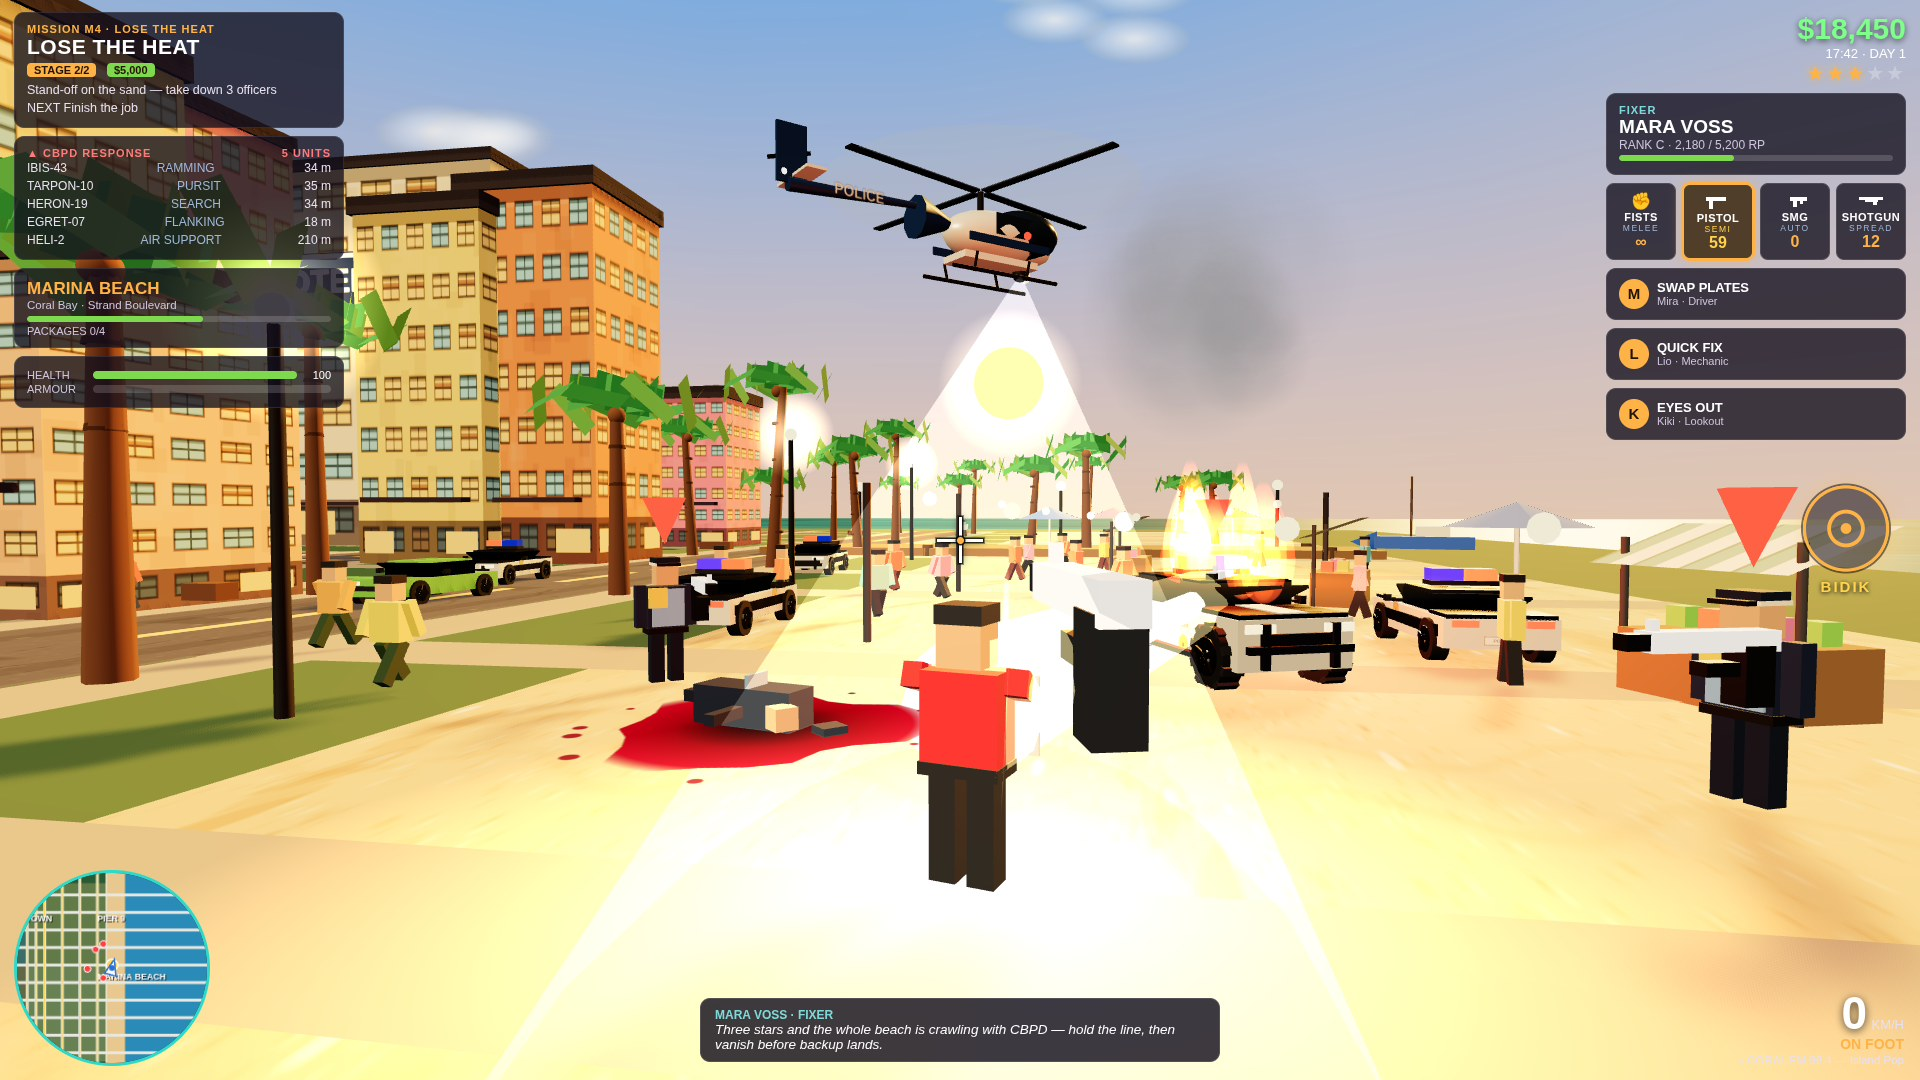
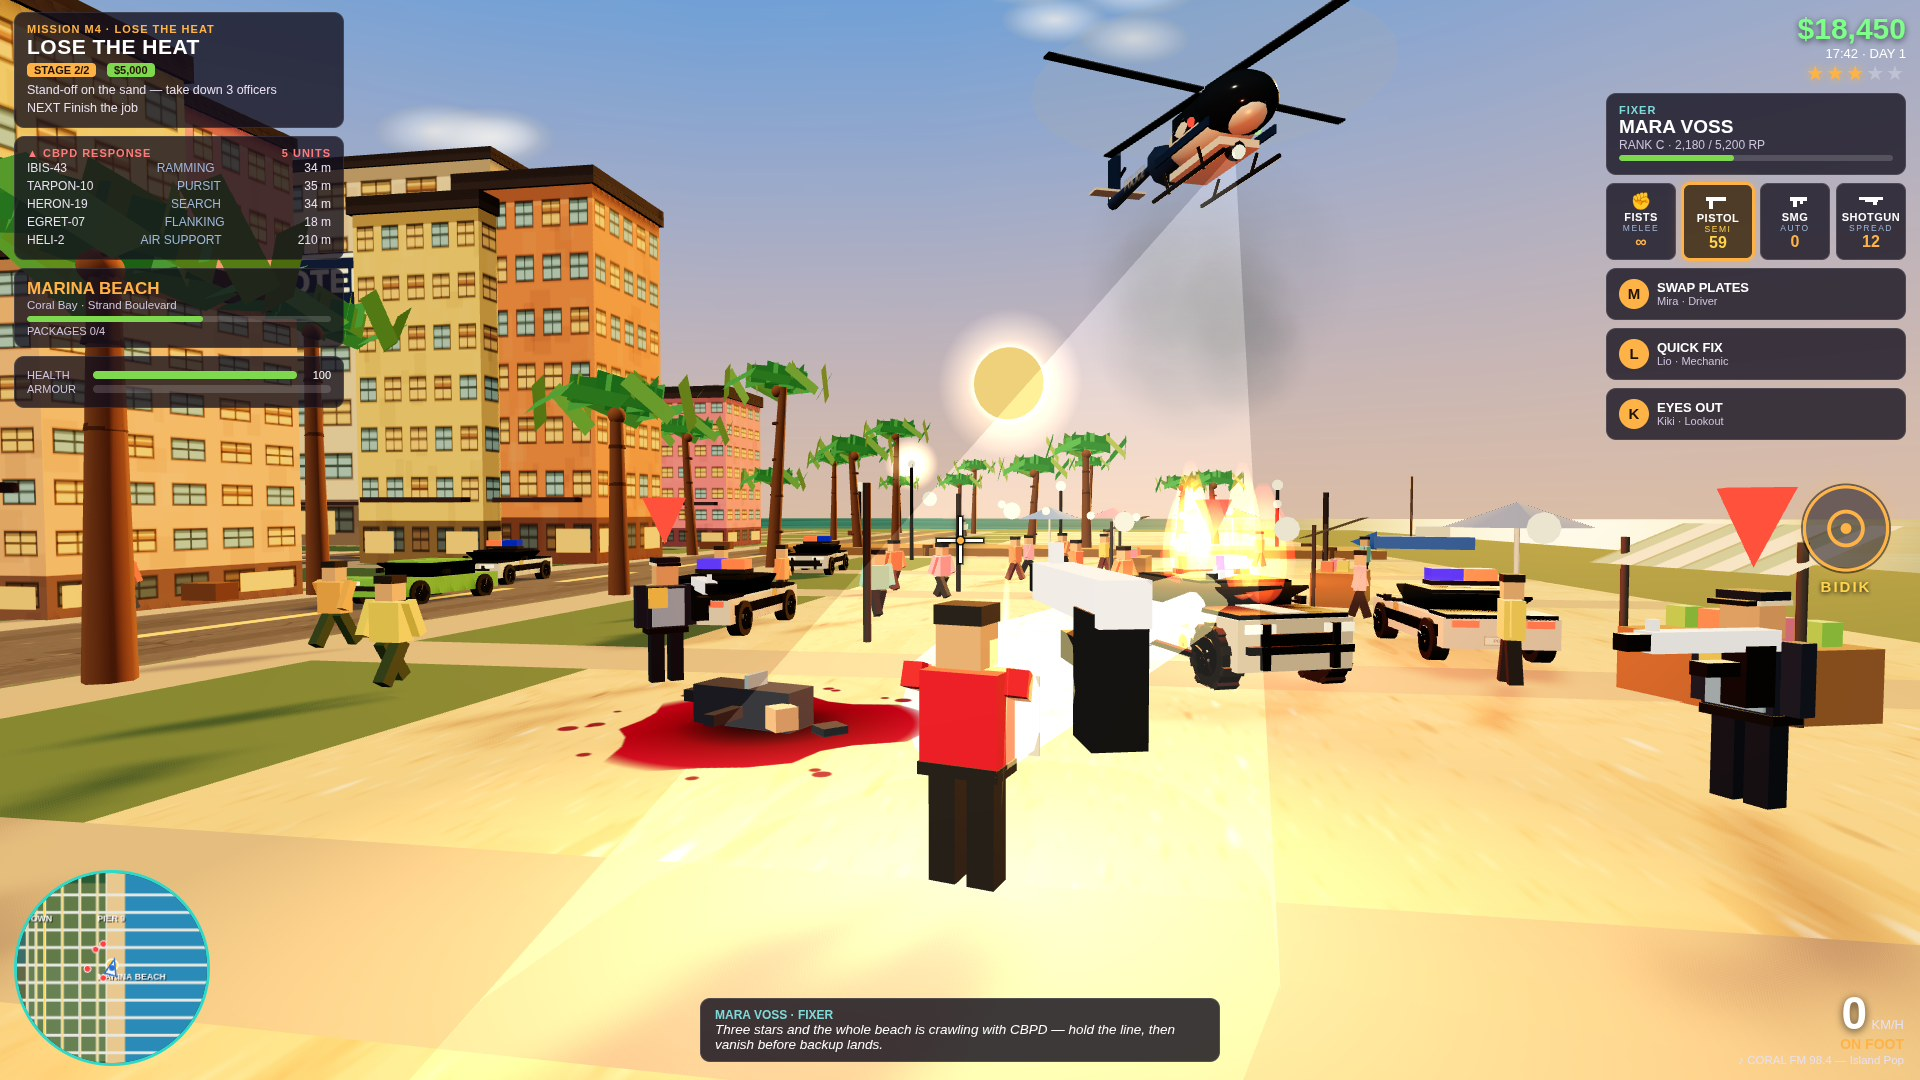
fix10: lamp out of road, people to sidewalk, GT nose-down hood, shootout glare down, title hero bigger

diff --git a/game/src/cars.js b/game/src/cars.js
@@ -209,27 +209,32 @@ export function makeHeroCar() {
 
   // lower body: long, low, wide — the GT stance
   g.add(box(2.0, 0.5, 4.4, orange, 0, 0.55, 0));
-  // SCULPTED HOOD (fix9): the flat slab hood is what made the nose
-  // read as a wedge from the front-3/4. Now the hood is FACETED —
-  // a tall centre spine down the middle, two side panels angled
-  // down toward the fenders, and thin dark shut lines flanking the
-  // spine — so the hood catches the light in three planes and reads
-  // as a shaped GT-R bonnet, not one flat orange board.
-  g.add(box(1.9, 0.08, 1.3, orange, 0, 0.84, 1.5, -0.1));
-  g.add(box(0.5, 0.16, 1.35, orange, 0, 0.9, 1.5, -0.1)); // centre spine
-  const hoodL = box(0.62, 0.07, 1.25, orange, -0.62, 0.87, 1.5, -0.1);
+  // SCULPTED HOOD (fix9, slope fixed in fix10): the flat slab hood
+  // is what made the nose read as a wedge from the front-3/4. Now
+  // the hood is FACETED — a tall centre spine down the middle, two
+  // side panels angled down toward the fenders, and thin dark shut
+  // lines flanking the spine — so the hood catches the light in
+  // three planes and reads as a shaped GT-R bonnet, not one flat
+  // orange board. fix10: the panels used to tilt NOSE-UP (rx -0.1),
+  // which is why the bonnet still read as a flat slab from the
+  // front — a real GT-R hood slopes DOWN to the nose. Flipped to
+  // rx +0.08 / +0.1 so the bonnet falls away toward the grille and
+  // the car reads lower and sleeker from the front-3/4.
+  g.add(box(1.9, 0.08, 1.3, orange, 0, 0.84, 1.5, 0.08));
+  g.add(box(0.5, 0.16, 1.35, orange, 0, 0.9, 1.5, 0.08)); // centre spine
+  const hoodL = box(0.62, 0.07, 1.25, orange, -0.62, 0.87, 1.5, 0.08);
   hoodL.rotation.z = 0.1;
-  const hoodR = box(0.62, 0.07, 1.25, orange, 0.62, 0.87, 1.5, -0.1);
+  const hoodR = box(0.62, 0.07, 1.25, orange, 0.62, 0.87, 1.5, 0.08);
   hoodR.rotation.z = -0.1;
   g.add(hoodL, hoodR);
-  g.add(box(0.03, 0.03, 1.3, dark, -0.3, 0.95, 1.5, -0.1)); // shut line L
-  g.add(box(0.03, 0.03, 1.3, dark, 0.3, 0.95, 1.5, -0.1)); // shut line R
+  g.add(box(0.03, 0.03, 1.3, dark, -0.3, 0.95, 1.5, 0.08)); // shut line L
+  g.add(box(0.03, 0.03, 1.3, dark, 0.3, 0.95, 1.5, 0.08)); // shut line R
   // fender ridges: a muscular shoulder line sloping from the
   // windshield base down to the nose on each side — the front-3/4
   // view catches these and the nose stops reading as a flat slab.
-  const frL = box(0.24, 0.1, 1.5, orangeDark, -0.88, 0.92, 1.35, -0.14);
+  const frL = box(0.24, 0.1, 1.5, orangeDark, -0.88, 0.92, 1.35, 0.1);
   frL.rotation.z = 0.06;
-  const frR = box(0.24, 0.1, 1.5, orangeDark, 0.88, 0.92, 1.35, -0.14);
+  const frR = box(0.24, 0.1, 1.5, orangeDark, 0.88, 0.92, 1.35, 0.1);
   frR.rotation.z = -0.06;
   g.add(frL, frR);
   // nose / front bumper: a sculpted fascia, not a flat box — the

diff --git a/game/src/game.js b/game/src/game.js
@@ -1368,11 +1368,30 @@ export class Game {
     this.scooter.rotation.y = 0;
     // a crowded boulevard: pedestrians on both sidewalks all the way
     // through the chase zone (cruisers to z -34, camera at z 24), so
-    // the street reads as alive at a glance
+    // the street reads as alive at a glance.
+    // fix10: the crowd stands at x 4.5 / 19.5 — 3.5 m clear of the
+    // road edge, on the outer sidewalk — NOT at 6.2 / 17.8. At 1.8 m
+    // off the edge a walker reads as standing IN the road from the
+    // low cover camera (the 2.5 m sidewalk foreshortens to nothing);
+    // at 3.5 m the whole body projects onto the pale pavement, and
+    // nobody's feet touch the asphalt.
     this.stageCrowd([
-      [6.2, -28], [17.8, -20], [6.2, -12], [17.8, -4], [6.2, 4], [17.8, 12],
-      [6.2, 20], [17.8, 28], [6.2, 36], [17.8, 44], [6.2, -36], [17.8, 20],
+      [4.5, -28], [19.5, -20], [4.5, -12], [19.5, -4], [4.5, 4], [19.5, 12],
+      [4.5, 20], [19.5, 28], [4.5, 36], [19.5, 44], [4.5, -36], [19.5, 20],
     ], []);
+    // fix10: the ambient walkers wander the same corridor — snap any
+    // of them standing in the cover chase zone (avenues 0/12/24,
+    // z -40..50) onto the same safe sidewalk lines, so no stray
+    // pedestrian reads as walking in the middle of the road either.
+    // They only ever move along z, so a one-time x snap holds
+    // through the capture.
+    for (const p of this.peds) {
+      const px = p.mesh.position.x, pz = p.mesh.position.z;
+      if (px >= 4 && px <= 28 && pz >= -40 && pz <= 50) {
+        const nx = px < 12 ? 4.5 : px < 24 ? 19.5 : 29.5;
+        p.mesh.position.x = nx;
+      }
+    }
     // heli low over the chase, beam down on the road between the hero
     // and the nearest cruiser — its body in the frame, the light pool
     // landing ahead of the orange GT (pinned via heliTarget; the
@@ -1469,6 +1488,15 @@ export class Game {
     this.heli.group.visible = true;
     this.heli.pool.visible = true;
     updateHeli(this.heli, this.heliTarget, 0, this.time);
+    // fix10: dim the searchlight for the shootout only — the pool
+    // (0.55) + beam shaft (0.1) stacked on the bright sand into a
+    // white washout that erased the pistol and the tracer. At pool
+    // 0.38 / beam 0.07 the light still marks the player, but the
+    // sand keeps its tone and the gun + tracer read against it.
+    // Each capture is a fresh page, so this never leaks into the
+    // cover or the other shots.
+    this.heli.pool.material.opacity = 0.38;
+    this.heli.group.userData.beam.material.opacity = 0.07;
   }
 
   placeTitleTraffic() {

diff --git a/game/src/shots.js b/game/src/shots.js
@@ -92,7 +92,11 @@ function stageShootout(game) {
   game.setCash(18450);
   game.setClock(DUSK);
   game.setWanted(3);
-  game.renderer.toneMappingExposure = 1.6;
+  // fix10: 1.6 still blows the sand out white-yellow and erases the
+  // pistol + tracer — drop to 1.35, and the shootout scene dims its
+  // heli pool + beam too (game.js), so the gun and the beam pop
+  // against sand that keeps its tone.
+  game.renderer.toneMappingExposure = 1.35;
   game.placeShootoutScene();
   frameShot(game, 'shootout', true, false, false);
   game.hud.setDialogue('MARA VOSS · FIXER', 'Three stars and the whole beach is crawling with CBPD — hold the line, then vanish before backup lands.');
@@ -130,7 +134,12 @@ function stageTitle(game) {
   game.startPlay();
   game.setCash(18450);
   game.setClock(DUSK);
-  game.teleportCar(92, 37, Math.PI * 0.92);
+  // fix10: the hero sits at z 40 now, not 37 — 15 m from the lens
+  // instead of 18, so it reads bigger in the lower centre instead
+  // of a small car driving away at the bottom. (z 43 was tried
+  // first and cropped the car off the bottom edge — 40 keeps the
+  // whole car in frame.)
+  game.teleportCar(92, 40, Math.PI * 0.92);
   game.placeTitleTraffic();
   frameShot(game, 'title', false, true, false);
 }

diff --git a/game/src/city.js b/game/src/city.js
@@ -522,10 +522,22 @@ export function buildProps(state) {
     group.add(pole, arm, bulb, halo);
   };
   for (let z = -96; z <= 108; z += 24) {
-    addLamp(6.0, z + 12);
-    addLamp(18.0, z + 12);
+    const lz = z + 12;
+    // fix10: NO lamp in the cover chase zone (z -48..48). The poles
+    // stand on the sidewalk, but from the low cover camera a pole
+    // 2 m off the road edge reads as standing IN the middle of the
+    // road — Egi called it out. With the zone clear, the cover frame
+    // has no pole near the road at all; the lamps further north sit
+    // at the horizon, too small to read as in the road.
+    if (lz >= -48 && lz <= 48) continue;
+    addLamp(6.0, lz);
+    addLamp(18.0, lz);
   }
   for (let z = -40; z <= 60; z += 20) {
+    // fix10: no promenade pole in the shootout standoff zone
+    // (z -24..24) — a pole there reads as standing in the open sand
+    // in the middle of the fight, not on the promenade edge.
+    if (z >= -24 && z <= 24) continue;
     const pole = new THREE.Mesh(new THREE.CylinderGeometry(0.09, 0.12, 5.5, 6), lampPoleMat);
     pole.position.set(106, 2.75, z);
     const bulb = new THREE.Mesh(new THREE.SphereGeometry(0.22, 8, 8), lampBulbMat);
